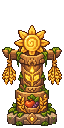
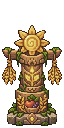
Totems: drawn at 3x with ground shadow, vanilla-level saturation, fade when the player is behind; the covered tiles stay free of other objects; per-totem closing lines; Processing Totem also speeds kegs, jars, cheese presses and recyclers; one Wizard letter at Farming 8 teaches all four recipes; van
Claude-Session: https://claude.ai/code/session_01UzUGsvmqxxUpAbp4KvnqEk

diff --git a/source/Totems/TotemArt.cs b/source/Totems/TotemArt.cs
@@ -16,7 +16,7 @@ internal sealed class TotemArt
     private readonly IModHelper Helper;
     private readonly Dictionary<(TotemKind, bool), Texture2D> Textures = new();
     private readonly Dictionary<TotemKind, Rectangle> WorldBounds = new();
-    internal const int TargetWorldWidth = 128, HeldHeight = 128;
+    internal const int TargetWorldWidth = 180, HeldHeight = 128;
     [ThreadStatic] private static int CursorDepth;
     [ThreadStatic] private static bool CursorHasPreview;
     private readonly record struct CursorState(int Depth, bool Preview);
@@ -85,7 +85,7 @@ internal sealed class TotemArt
         return rect;
     }
     // Preserve the single-frame author's silhouette. Prefer whole source-pixel blocks
-    // near two tiles wide: the current 60px bodies render at 2x, i.e. 120px wide.
+    // near three tiles wide: the current 60px bodies render at 3x, i.e. 180px wide.
     // Height follows the cropped body; never stretch X and Y independently.
     internal static Vector2 WorldScale(Rectangle bounds)
     {
@@ -107,20 +107,90 @@ internal sealed class TotemArt
     {
         var bounds=Instance.Bounds(kind);
         var scale=held?new Vector2(HeldHeight/(float)bounds.Height):WorldScale(bounds);
+        if(!held)
+        {
+            // Soft ground shadow under the stone base, the game's own shadow sprite.
+            var sb=Game1.shadowTexture.Bounds;
+            batch.Draw(Game1.shadowTexture,ground-new Vector2(0,6),sb,Color.White*(0.45f*alpha),0,new Vector2(sb.Width/2f,sb.Height/2f),
+                new Vector2(bounds.Width*scale.X*0.85f/sb.Width,24f/sb.Height),SpriteEffects.None,Math.Max(0,layer-0.0001f));
+        }
         batch.Draw(Instance.Texture(kind,false),ground,bounds,ColorFor(kind)*alpha,0,
             new Vector2(bounds.Width/2f,bounds.Height),scale,SpriteEffects.None,layer);
+    }
+    /// <summary>World pixels covered by the artwork of a totem standing on (x,y).</summary>
+    internal static Rectangle ArtRect(TotemKind kind,int x,int y)
+    {
+        var bounds=Instance.Bounds(kind);var scale=WorldScale(bounds);
+        int w=(int)(bounds.Width*scale.X),h=(int)(bounds.Height*scale.Y);var g=GroundAnchor(x,y);
+        return new Rectangle((int)g.X-w/2,(int)g.Y-h,w,h);
+    }
+    /// <summary>Tiles under the artwork (each covered by at least a quarter tile), the totem's own tile included.</summary>
+    internal static IEnumerable<Vector2> CoveredTiles(TotemKind kind,int x,int y)
+    {
+        var r=ArtRect(kind,x,y);
+        for(int ty=(int)Math.Floor(r.Top/64f);ty<=y;ty++)
+            for(int tx=(int)Math.Floor(r.Left/64f);tx*64<r.Right;tx++)
+            {
+                var cell=new Rectangle(tx*64,ty*64,64,64);var hit=Rectangle.Intersect(cell,r);
+                if(hit.Width>=16&&hit.Height>=16)yield return new Vector2(tx,ty);
+            }
+    }
+    private static bool Behind(TotemKind kind,int x,int y)
+    {
+        // Like native trees: fade while the local player stands behind the artwork.
+        var who=Game1.player;if(who?.currentLocation==null)return false;
+        var art=ArtRect(kind,x,y);var box=who.GetBoundingBox();
+        return box.Intersects(new Rectangle(art.X,art.Y,art.Width,art.Height-16)) && who.StandingPixel.Y<(y+1)*64-8;
     }
     private static bool Place(SObject __instance, GameLocation location, ref bool __result)
     {
         if (!TotemRules.TryKind(__instance.QualifiedItemId, out _) || ReferenceEquals(location, Game1.getFarm())) return true;
         __result = false; return false;
     }
-    private static void CanPlace(GameLocation location, Item item, ref bool __result)
-    { if (TotemRules.TryKind(item.QualifiedItemId, out _) && !ReferenceEquals(location, Game1.getFarm())) __result = false; }
+    private static void CanPlace(GameLocation location, Item item, int x, int y, ref bool __result)
+    {
+        if (!__result || item == null) return;
+        if (TotemRules.TryKind(item.QualifiedItemId, out var kind))
+        {
+            if (!ReferenceEquals(location, Game1.getFarm())) { __result = false; return; }
+            __result = TotemRoomFree(location, kind, x / 64, y / 64);
+            return;
+        }
+        if (!ReferenceEquals(location, Game1.getFarm()) || item is not SObject o || Overlookable(o)) return;
+        if (UnderTotem(location, new Vector2(x / 64, y / 64))) __result = false;
+    }
+    // Seeds, fertilizer and floor paths may still go under a totem's artwork.
+    private static bool Overlookable(SObject o) => o.Category is SObject.SeedsCategory or SObject.fertilizerCategory
+        || StardewValley.TerrainFeatures.Flooring.GetFloorPathItemLookup().ContainsKey(o.ItemId);
+    internal static bool UnderTotem(GameLocation location, Vector2 tile)
+    {
+        foreach (var pair in location.objects.Pairs)
+            if (TotemRules.TryKind(pair.Value.QualifiedItemId, out var kind) && pair.Key != tile
+                && CoveredTiles(kind, (int)pair.Key.X, (int)pair.Key.Y).Contains(tile)) return true;
+        return false;
+    }
+    private static bool TotemRoomFree(GameLocation location, TotemKind kind, int x, int y)
+    {
+        var mine = CoveredTiles(kind, x, y).ToHashSet();
+        foreach (var tile in mine)
+        {
+            if (tile == new Vector2(x, y)) continue;
+            if (location.objects.ContainsKey(tile) || location.getBuildingAt(tile) != null) return false;
+            if (location.terrainFeatures.TryGetValue(tile, out var f) && f is StardewValley.TerrainFeatures.Tree or StardewValley.TerrainFeatures.FruitTree) return false;
+            if (location.furniture.Any(fu => fu.GetBoundingBox().Intersects(new Rectangle((int)tile.X * 64, (int)tile.Y * 64, 64, 64)))) return false;
+        }
+        // Two totems never overlap each other's artwork.
+        foreach (var pair in location.objects.Pairs)
+            if (TotemRules.TryKind(pair.Value.QualifiedItemId, out var other) && pair.Key != new Vector2(x, y)
+                && CoveredTiles(other, (int)pair.Key.X, (int)pair.Key.Y).Any(mine.Contains)) return false;
+        return true;
+    }
     private static bool World(SObject __instance, SpriteBatch spriteBatch, int x, int y, float alpha)
     {
         if (!TotemRules.TryKind(__instance.QualifiedItemId, out var kind)) return true;
         var at = Game1.GlobalToLocal(Game1.viewport, GroundAnchor(x,y));
+        bool placed = Game1.currentLocation?.objects.TryGetValue(new Vector2(x, y), out var here) == true && ReferenceEquals(here, __instance);
+        if (placed && Behind(kind, x, y)) alpha *= 0.4f;
         DrawWorld(spriteBatch,kind,at,alpha,Math.Max(0,((y+1)*64-1)/10000f));
         // Native placement preview calls Object.draw, then draws the carried icon.
         // Suppress only that redundant icon inside this cursor render pass.

diff --git a/source/Totems/TotemUnlockService.cs b/source/Totems/TotemUnlockService.cs
@@ -49,6 +49,7 @@ internal sealed class TotemUnlockService
             var data = a.AsDictionary<string, string>().Data;
             foreach (var r in TotemUnlockRules.Recipes)
                 data[r.Mail] = Tr(r.Key + ".mail") + "%item craftingrecipe " + r.Id + " %%[#]" + Tr(r.Key + ".mail-title");
+            data[AllRecipesMail] = Tr("totem.all.mail") + "[#]" + Tr("totem.all.mail-title");
         });
     }
     private bool IsCrop(string id)
@@ -106,25 +107,27 @@ internal sealed class TotemUnlockService
             }
         }
     }
+    // Farming level 8: the Wizard writes the next morning and the letter teaches all four totems at once.
+    internal const string AllRecipesMail = "Eddie.BetterStardewValley_TotemRecipesWizard";
+    internal const int UnlockFarmingLevel = 8;
     private void Refresh()
     {
         if (!Context.IsWorldReady || IntegrationHost.Saving || Game1.eventUp || !Game1.player.IsLocalPlayer) return;
         var who = Game1.player;
         try
         {
-            var s = Read(who); int day = Game1.Date.TotalDays;
-            ObserveHistory(who, s); Reconcile(who, s, day);
-            TotemUnlockRules.ObserveEligibility(s, who.farmingLevel.Value, day);
-            TotemUnlockRules.Schedule(s, day);
-            var due = TotemUnlockRules.Due(s, day);
-            if (due != null)
+            if (who.mailReceived.Contains(AllRecipesMail))
             {
-                // Only our mail ID; native LetterViewerMenu learns the recipe when the letter is read.
-                if (!who.mailbox.Contains(due.Mail) && !who.mailReceived.Contains(due.Mail)) who.mailbox.Add(due.Mail);
-                TotemUnlockRules.Delivered(s, due, day);
+                foreach (var r in TotemUnlockRules.Recipes)
+                    if (!who.craftingRecipes.ContainsKey(r.Id)) who.craftingRecipes.Add(r.Id, 0);
+                return;
             }
-            TotemUnlockRules.Schedule(s, day);
-            Write(who, s);
+            bool knowsAll = TotemUnlockRules.Recipes.All(r => who.craftingRecipes.ContainsKey(r.Id));
+            if (who.farmingLevel.Value < UnlockFarmingLevel || knowsAll) return;
+            // The old one-totem letters are no longer sent; an unread one waiting in the mailbox is withdrawn.
+            foreach (var r in TotemUnlockRules.Recipes)
+                if (!who.mailReceived.Contains(r.Mail)) { who.mailbox.Remove(r.Mail); who.mailForTomorrow.Remove(r.Mail); }
+            if (!who.mailbox.Contains(AllRecipesMail) && !who.mailForTomorrow.Contains(AllRecipesMail)) who.mailForTomorrow.Add(AllRecipesMail);
         }
         catch (Exception ex) { Error(who, ex); }
     }

diff --git a/source/Totems/TotemService.cs b/source/Totems/TotemService.cs
@@ -108,8 +108,15 @@ internal sealed class TotemService
         long actor = Game1.player.UniqueMultiplayerID;
         if (Notices.Remove(actor, out var notice))
         {
-            Pending.Remove(actor); SentAt.Remove(actor);
-            Game1.addHUDMessage(new HUDMessage(Tr(notice.Key, new { days = notice.Days }), notice.Key == "totem.success" ? 2 : 3));
+            Pending.Remove(actor, out var asked); SentAt.Remove(actor);
+            if (notice.Key == "totem.success" && asked != null)
+            {
+                // Each totem's own closing line, in a dialogue box like native shrines.
+                string line = Tr("totem." + asked.Kind.ToString().ToLowerInvariant() + ".success");
+                if (Game1.activeClickableMenu == null && !Game1.eventUp) Game1.drawObjectDialogue(line);
+                else Game1.addHUDMessage(new HUDMessage(line, 2));
+            }
+            else Game1.addHUDMessage(new HUDMessage(Tr(notice.Key, new { days = notice.Days }), notice.Key == "totem.success" ? 2 : 3));
         }
         if (Pending.TryGetValue(actor, out var pending) && Environment.TickCount64 - SentAt[actor] >= 2000)
         {

diff --git a/source/Totems/ProcessingPolicy.cs b/source/Totems/ProcessingPolicy.cs
@@ -13,11 +13,9 @@ internal static class ProcessingPolicy
         WineRules.BsvKeg, "(BC)12", "(BC)13", "(BC)15", "(BC)16", "(BC)17", "(BC)19", "(BC)20", "(BC)24",
         "(BC)114", "(BC)Dehydrator", "(BC)FishSmoker", "(BC)HeavyFurnace"
     };
+    // Only the remaining time changes; collection, stats and experience happen natively when the player takes the output.
     internal static bool SupportsProcessingTotem(string machineId, MachineData? data)
-        => ProcessingTotemIds.Contains(machineId) && IsSafe(data)
-            // BSV Keg explicitly supports the totem even when its cloned native data tracks
-            // collection stats. Changing only remaining time does not collect or update stats.
-            && (machineId == WineRules.BsvKeg || !(data!.StatsToIncrementWhenHarvested?.Count > 0));
+        => ProcessingTotemIds.Contains(machineId) && IsSafe(data);
 
     internal static string? BlockReason(MachineData? data, string? machineId = null)
     {
